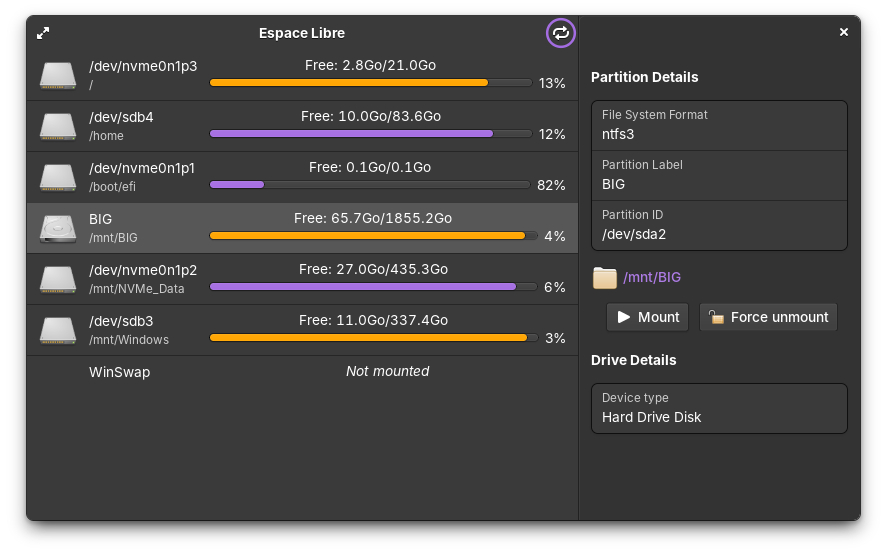
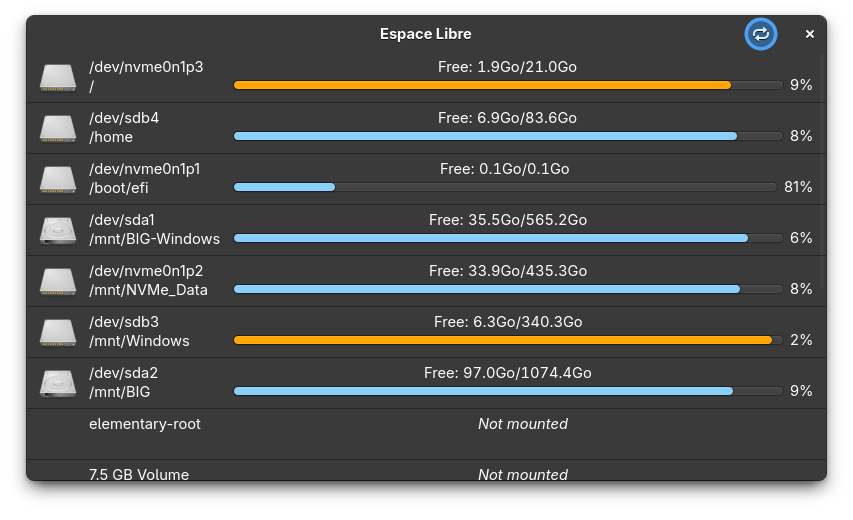
Update screenshots and metainfo

diff --git a/README.md b/README.md
@@ -36,7 +36,16 @@ Run `meson` to configure the build environment and then `ninja` to build
     cd build
     ninja
 
+#### Debug
+
+After building
+
+    G_MESSAGES_DEBUG=all src/espacelibre
+
+#### Install
+
 To install, use `ninja install`, then execute with `fr.flodavid.espacelibre`
 
     ninja install
     fr.flodavid.espacelibre
+
